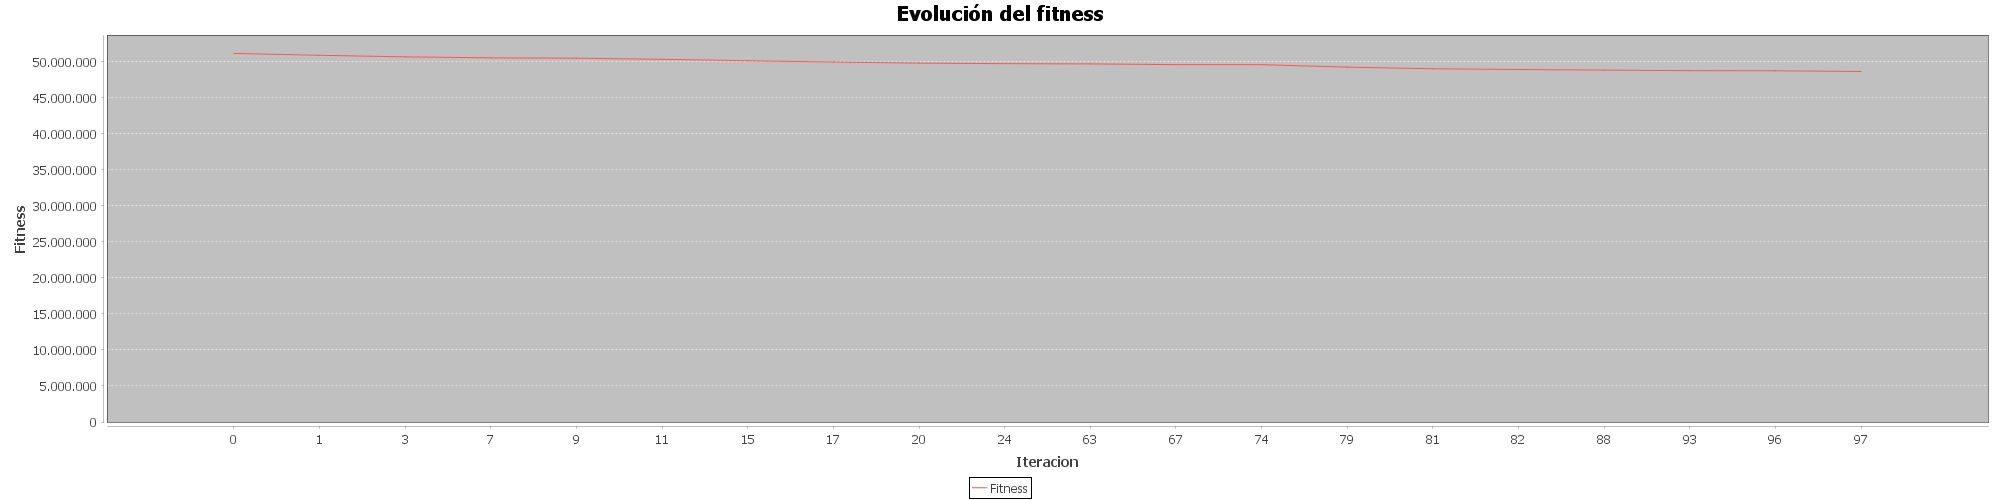
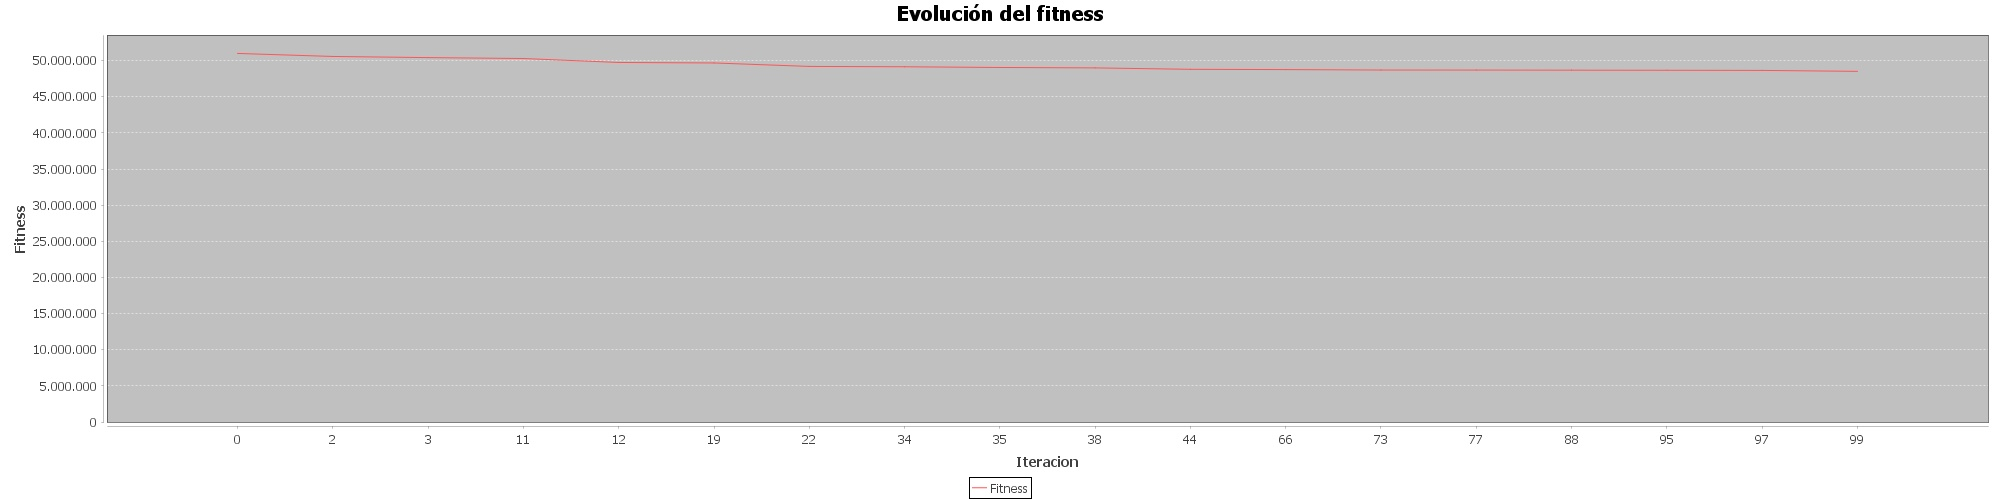
Nueva mejor solucion

diff --git a/QAP genetic algorithm/src/qap/genetic/algorithm/Individuo.java b/QAP genetic algorithm/src/qap/genetic/algorithm/Individuo.java
@@ -77,7 +77,7 @@ public class Individuo {
         Individuo local = new Individuo(this.tam, this.cromosoma, this.fitness);
         Individuo indiAux;
         int vAux;
-        boolean mejorado=false;
+        boolean mejorado = false;
         for (int i = 0; i < tam; i++) {
             for (int j = 0; j < tam; j++) {
                 indiAux = new Individuo(local.tam, local.cromosoma, local.fitness);
@@ -88,11 +88,11 @@ public class Individuo {
                 if (indiAux.getFitness() < local.getFitness()) {
                     System.out.println("Ha habido una mejora local");
                     local = new Individuo(indiAux.tam, indiAux.cromosoma, indiAux.fitness);
-                    mejorado=true;
+                    mejorado = true;
                 }
             }
         }
-        if(mejorado){
+        if (mejorado) {
             this.setCromosoma(local.cromosoma);
             this.setFitness(local.fitness);
             this.setTam(local.tam);

diff --git a/QAP genetic algorithm/src/qap/genetic/algorithm/Estandar.java b/QAP genetic algorithm/src/qap/genetic/algorithm/Estandar.java
@@ -65,6 +65,7 @@ public class Estandar {
             }
             mutarPoblacion();
             buscarMejor(i);
+            System.gc(); 
         }
         guardarResultado();
         long endTime = System.currentTimeMillis() - startTime;
@@ -78,7 +79,10 @@ public class Estandar {
                 mejor.setCromosoma(descendencia.get(i).getCromosoma());
                 mejor.calcularFitness(flujos, distancias);
                 this.graficoMejora.add(new Pair(ite, mejor.getFitness()));
-                //guardarResultado();
+                if(mejor.getFitness()<45152454){
+                    guardarResultado();
+                    System.out.println("Oleeeeeeeeeeeeeee");
+                }
             }
         }
     }

diff --git a/QAP genetic algorithm/src/qap/genetic/algorithm/main.java b/QAP genetic algorithm/src/qap/genetic/algorithm/main.java
@@ -29,12 +29,12 @@ public class main {
         System.out.println("Comienza...");
         leerFichero();
         //Estandar
-        //Estandar est = new Estandar(n, flujos, distancias);
-        //est.ejecutar();
-        //new Grafico(est.getGraficoMejora()).setVisible(true);
+        Estandar est = new Estandar(n, flujos, distancias);
+        est.ejecutar();
+        new Grafico(est.getGraficoMejora()).setVisible(true);
         //Baldwin
-        Baldwiniana bald = new Baldwiniana(n, flujos, distancias);
-        bald.ejecutar();
+//        Baldwiniana bald = new Baldwiniana(n, flujos, distancias);
+//        bald.ejecutar();
         //new Grafico(bald.getGraficoMejora()).setVisible(true);
     }
 

diff --git a/QAP genetic algorithm/src/qap/genetic/algorithm/Configuracion.java b/QAP genetic algorithm/src/qap/genetic/algorithm/Configuracion.java
@@ -12,7 +12,7 @@ package qap.genetic.algorithm;
 public class Configuracion {
 
     private final int tamPoblacion = 50;
-    private final int nIteraciones = 100;
+    private final int nIteraciones = 100000;
     private final int probMutacion = 80;
     //private final String fichero ="qap.datos/chr12a.dat";
     private final String fichero ="qap.datos/tai256c.dat"; //Cota --> 44095032

diff --git a/QAP genetic algorithm/src/qap/genetic/algorithm/Baldwiniana.java b/QAP genetic algorithm/src/qap/genetic/algorithm/Baldwiniana.java
@@ -46,8 +46,9 @@ public class Baldwiniana {
 
     public void ejecutar() {
         long startTime = System.currentTimeMillis();
-        guardarResultado();
+        
         long endTime = System.currentTimeMillis() - startTime;
+        guardarResultado();
         System.out.println("El algoritmo genetico Baldwinin ha tardado " + (endTime / 1000) + " segundos");
     }
 
